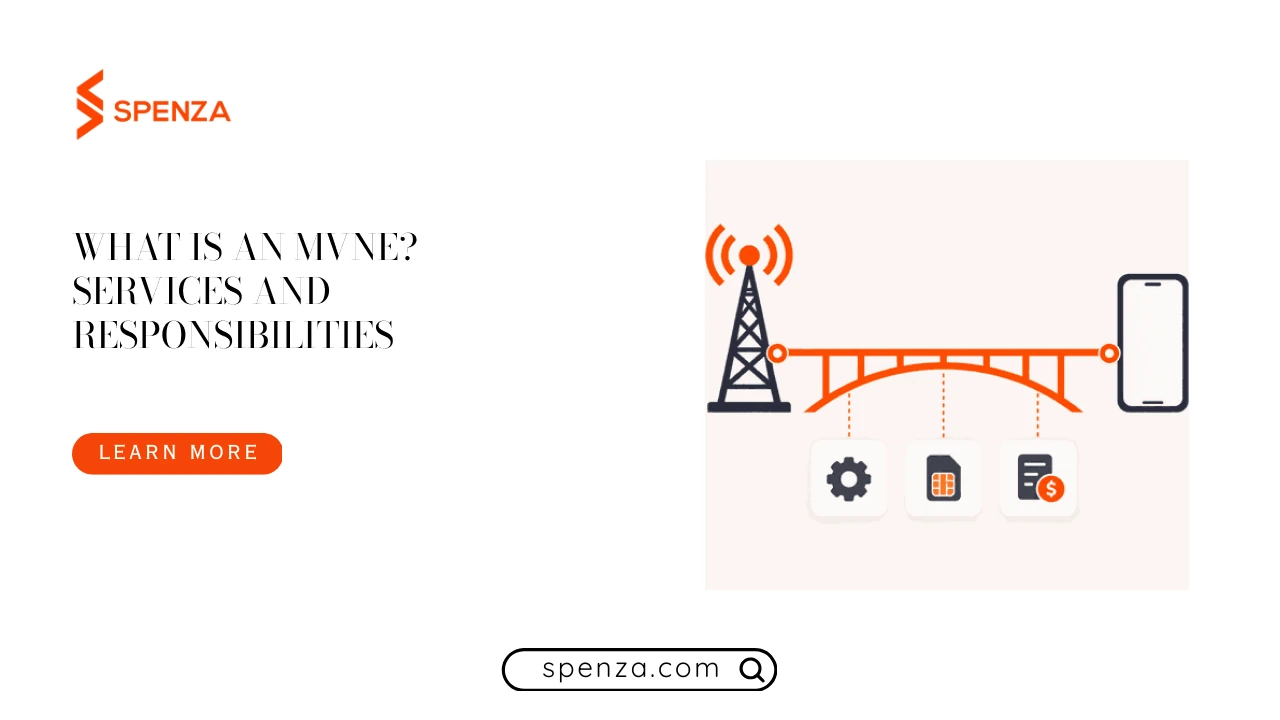
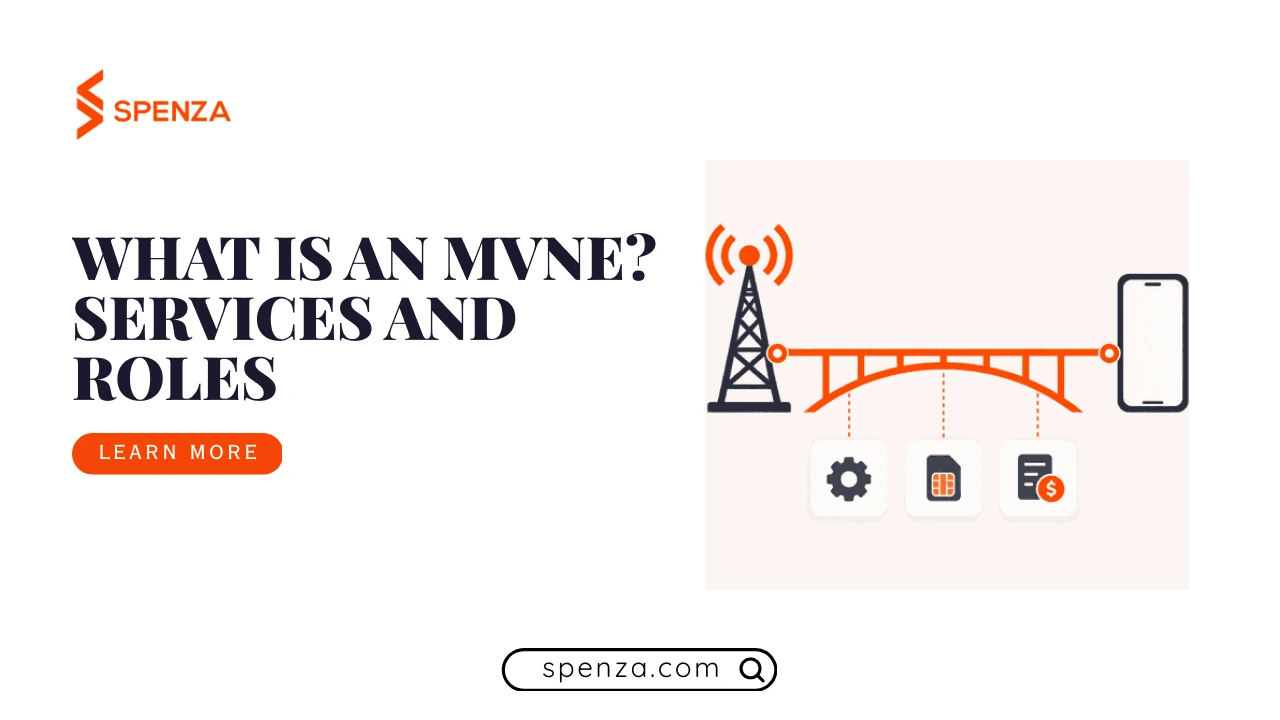
Strengthen three MVNO hero titles for thumbnail legibility

Changed region(s): [[0.0625, 0.3056, 0.5312, 0.5806]]

diff --git a/docs/merge-research/MVNO-hero-title-correction.md b/docs/merge-research/MVNO-hero-title-correction.md
@@ -1,0 +1,13 @@
+# Hero title correction, 24 September 2026
+
+M21, M19 and M12 title layers were reset in the existing Figma frames using Playfair Display Black, weight900, size60px, line height60px, x72 and a600px text box. Titles were shortened rather than reduced in size:
+
+- M21: WHAT IS AN MVNE? / SERVICES AND / ROLES
+- M19: MVNO TRENDS: / IS FREE DATA / THE FUTURE?
+- M12: CHOOSING AN / MVNE PROVIDER
+
+Only the title rectangle was composited back into each original PNG. A raw pixel comparison confirms zero changes outside x72–671, y220–414, preserving the art panel, logo, Learn More pill and bottom badge. All three WebP twins were re-exported at quality92.
+
+All three optimized images were viewed at320px wide. The text remains dark and readable, with no disappearing hairline strokes or clipping. The measured title widths are583px,472px and523px respectively, within the440–600px requirement. Source title nodes:15:44,14:7,22:44 in Figma fileQYBV0dwgiLrqR4PP6RpgP6. No article prose, author, score or metadata changed.
+
+Measured raster capital-line heights: M21: 48px, 44px, 44px; M19: 44px, 44px, 48px; M12: 44px, 44px.
